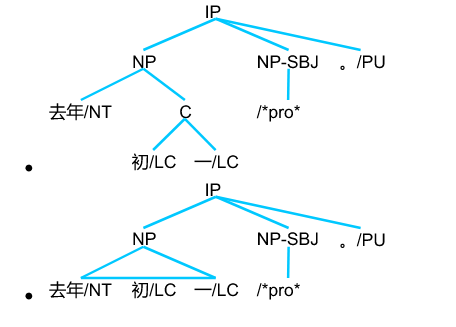
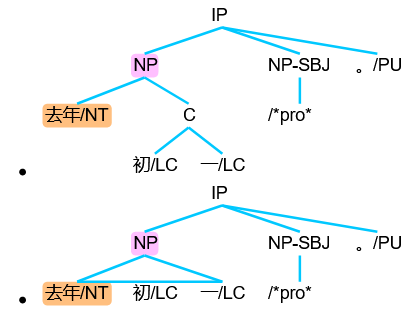
节点着色操作说明

Changed region(s): [[0.0311, 0.0, 0.9641, 0.9684], [0.0311, 0.4842, 0.0933, 0.5696], [0.0311, 0.9399, 0.0622, 0.9684]]

diff --git a/tree.htm b/tree.htm
@@ -18,8 +18,8 @@
 <script>
 var tree_json = '{"label":"IP", "children":[{"label":"NP", "color":"#FF80ff", "children":[{"label":"去年/NT", "color":"#FF8000"}, {"label":"C", "children":[{"label":"初/LC"}, {"label":"一/LC"}] }] },{"label":"NP-SBJ", "children":[{"label":"/*pro*"}] }, {"label":"。/PU"}] }'
 drawTree('l0',tree_json);
-//var tree_json = '{"label":"IP", "children":[{"label":"NP", "fold":"true", "children":["去年/NT", {"label":"C", "children":["初/LC","一/LC"] }] },{"label":"NP-SBJ", "children":["/*pro*"] },"。/PU"] }'
-//drawTree('l1',tree_json);
+var tree_json = '{"label":"IP", "children":[{"label":"NP", "color":"#FF80ff", "fold":"true", "children":[{"label":"去年/NT", "color":"#FF8000"}, {"label":"C", "children":[{"label":"初/LC"}, {"label":"一/LC"}] }] },{"label":"NP-SBJ", "children":[{"label":"/*pro*"}] }, {"label":"。/PU"}] }';
+drawTree('l1',tree_json);
 //var tree_json = '{"label":"IP", "children":[{"label":"NP-SBJ", "children":[{"label":"CP",  "fold":"true", "children":[{"label":"WHNP-4", "children":["/*OP*"] },{"label":"CP", "children":[{"label":"IP", "children":[{"label":"NP-SBJ", "children":["/*T*-4"] },{"label":"VP", "children":[{"label":"LCP-TMP", "children":[{"label":"NP", "children":["去年/NT"] },"初/LC"] },{"label":"NP-LOC", "children":[{"label":"NP-PN", "children":["浦东/NR"] },{"label":"NP", "children":["新区/NN"] }] },{"label":"VP", "children":["诞生/VV"] }] }] },"的/DEC"] }] },{"label":"NP-PN", "children":["中国/NR"] },{"label":"QP", "children":["第一/OD",{"label":"CLP", "children":["家/M"] }] },{"label":"NP", "fold":"true", "children":["医疗/NN","机构/NN","药品/NN","采购/NN","服务/NN","中心/NN"] }] },"，/PU",{"label":"VP", "children":[{"label":"PP",  "fold":"true", "children":[{"label":"ADVP", "children":["正/AD"] },{"label":"PP", "children":["因为/P",{"label":"IP", "children":[{"label":"NP-SBJ", "children":["/*pro*"] },{"label":"VP", "children":[{"label":"VP", "children":[{"label":"ADVP", "children":["一/AD"] },{"label":"VP", "children":["开始/VV"] }] },{"label":"VP", "children":[{"label":"ADVP", "children":["就/AD"] },{"label":"ADVP", "children":["比较/AD"] },{"label":"VP", "children":["规范/VA"] }] }] }] }] }] },"，/PU",{"label":"IP-ADV", "children":[{"label":"IP-SBJ", "children":[{"label":"NP-SBJ", "children":["/*pro*"] },{"label":"VP", "children":["运转/VV"] }] },{"label":"VP", "children":["至今/VV"] }] },"，/PU",{"label":"VP", "fold":"true", "children":[{"label":"VP", "children":["成交/VV",{"label":"NP-OBJ", "children":["药品/NN"] },{"label":"QP-EXT", "children":["一亿多/CD",{"label":"CLP", "children":["元/M"] }] }] },"，/PU",{"label":"VP", "children":["没有/VV",{"label":"VP", "children":["发现/VV",{"label":"NP-OBJ", "children":[{"label":"QP", "children":["一/CD",{"label":"CLP", "children":["例/M"] }] },{"label":"NP", "children":["回扣/NN"] }] }] }] }] }] },"。/PU"] }'
 //drawTree('l2',tree_json);
 </script>

diff --git a/README.md b/README.md
@@ -8,6 +8,7 @@
 * 可交互式折叠/展开子树，也支持初始折叠子树
 * json格式数据接口
 * 仅依赖two.js和jQuery(只使用了$.parseJSON()方法，可用其它json解析方法替换)
+* 增加节点背景着色
 
 ```javascript
 //可按需设置字体、大小、行高等。若采用默认，则这三个变量可不设置
@@ -21,9 +22,9 @@ var FONT_STYLE = {
 var TREE_LAYER_HEIGHT = 40  // the height of tree layer by layer
 var TREE_LEAF_GAP = 15      // the gap between a leaf to another
 
-var tree_json = '{"label":"IP", "children":[{"label":"NP", "children":["去年/NT", {"label":"C", "children":["初/LC","一/LC"] }] },{"label":"NP-SBJ", "children":["/*pro*"] },"。/PU"] }';
+var tree_json = '{"label":"IP", "children":[{"label":"NP", "color":"#FF80ff", "children":[{"label":"去年/NT", "color":"#FF8000"}, {"label":"C", "children":[{"label":"初/LC"}, {"label":"一/LC"}] }] },{"label":"NP-SBJ", "children":[{"label":"/*pro*"}] }, {"label":"。/PU"}] }'
 drawTree('l0',tree_json);   // l0 为加入的document Element对象id。例如 <li id='l0'></li>
-var tree_json = '{"label":"IP", "children":[{"label":"NP", "fold":"true", "children":["去年/NT", {"label":"C", "children":["初/LC","一/LC"] }] },{"label":"NP-SBJ", "children":["/*pro*"] },"。/PU"] }';    //注意：fold==true 初始为折叠子树状态
+var tree_json = '{"label":"IP", "children":[{"label":"NP", "color":"#FF80ff", "fold":"true", "children":[{"label":"去年/NT", "color":"#FF8000"}, {"label":"C", "children":[{"label":"初/LC"}, {"label":"一/LC"}] }] },{"label":"NP-SBJ", "children":[{"label":"/*pro*"}] }, {"label":"。/PU"}] }';    //注意：fold==true 初始为折叠子树状态
 drawTree('l1',tree_json);
 ```
 
